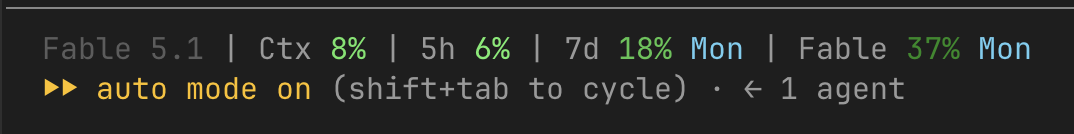
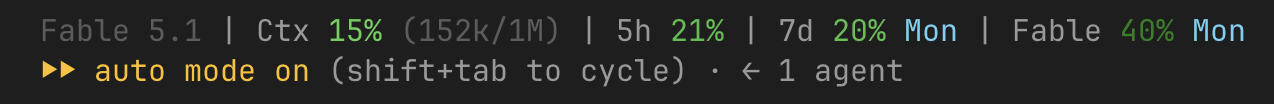
docs: update screenshot with the context token counts

Changed region(s): [[0.0307, 0.1731, 0.9832, 0.4615], [0.0307, 0.5481, 0.8603, 0.8365], [0.0, 0.0288, 1.0, 0.0865]]

diff --git a/README.md b/README.md
@@ -2,7 +2,7 @@
 
 A one line Claude Code statusline, built for macOS with a Python port for Linux and Windows. It shows the model, context usage as a percentage and as tokens over the window size, the 5 hour and 7 day rate limits, and the Fable weekly limit, with the reset day next to the weekly ones.
 
-![statusline showing Fable 5.1, context 8%, 5h 6%, 7d 18% Mon, Fable 37% Mon](statusline.png)
+![statusline showing Fable 5.1, Ctx 15% (152k/1M), 5h 21%, 7d 20% Mon, Fable 40% Mon](statusline.png)
 
 Every percentage fades from bright to dark inside its band so you can see where you are without reading the number.
 
